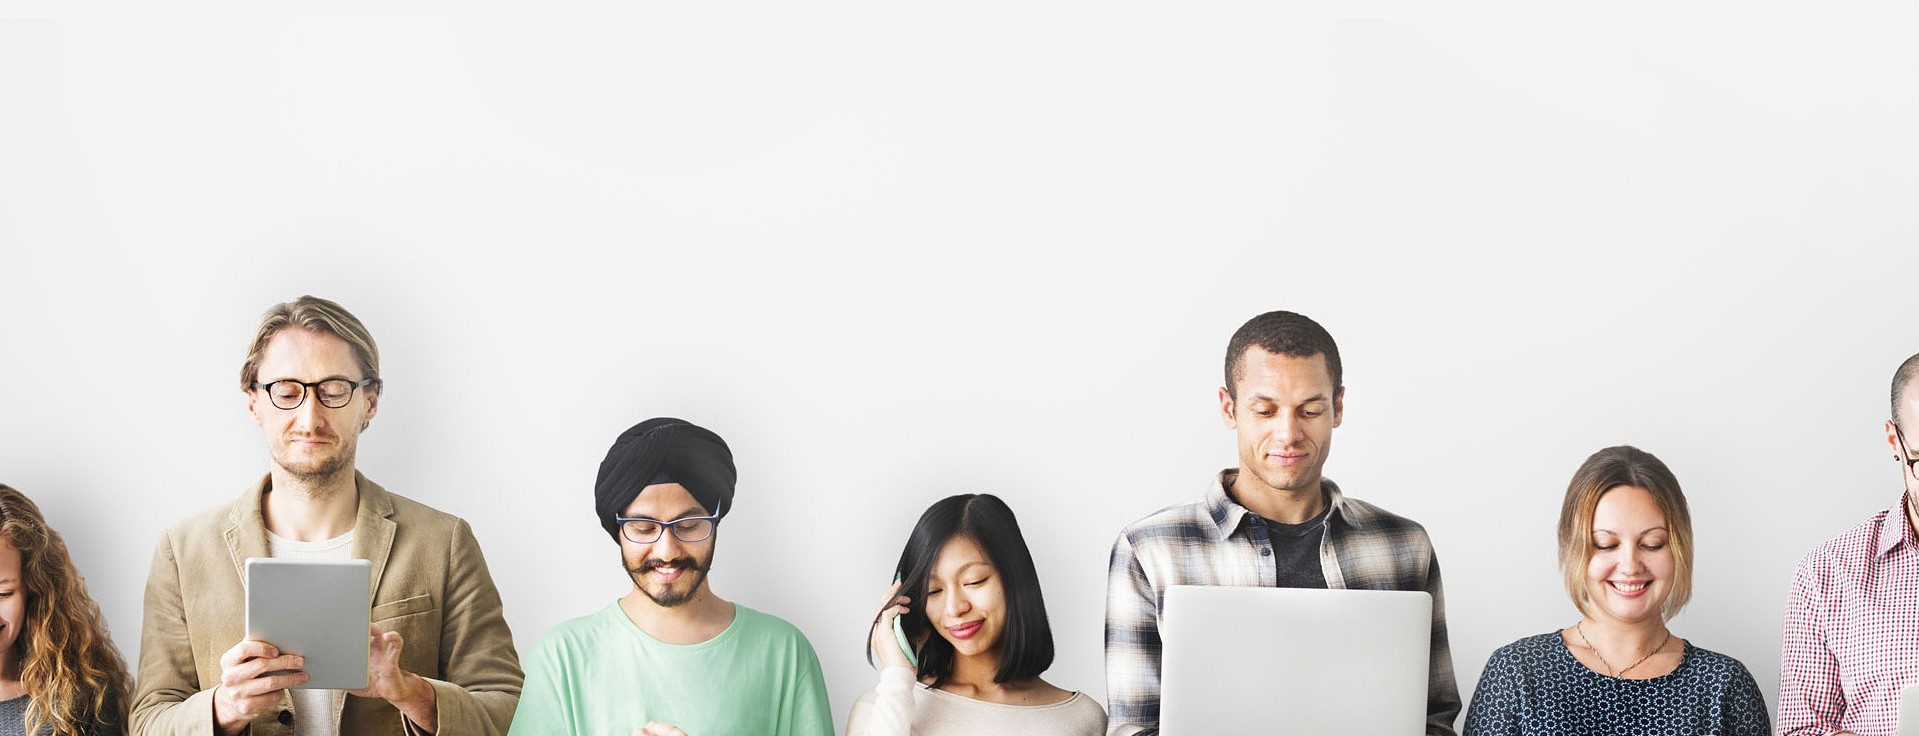
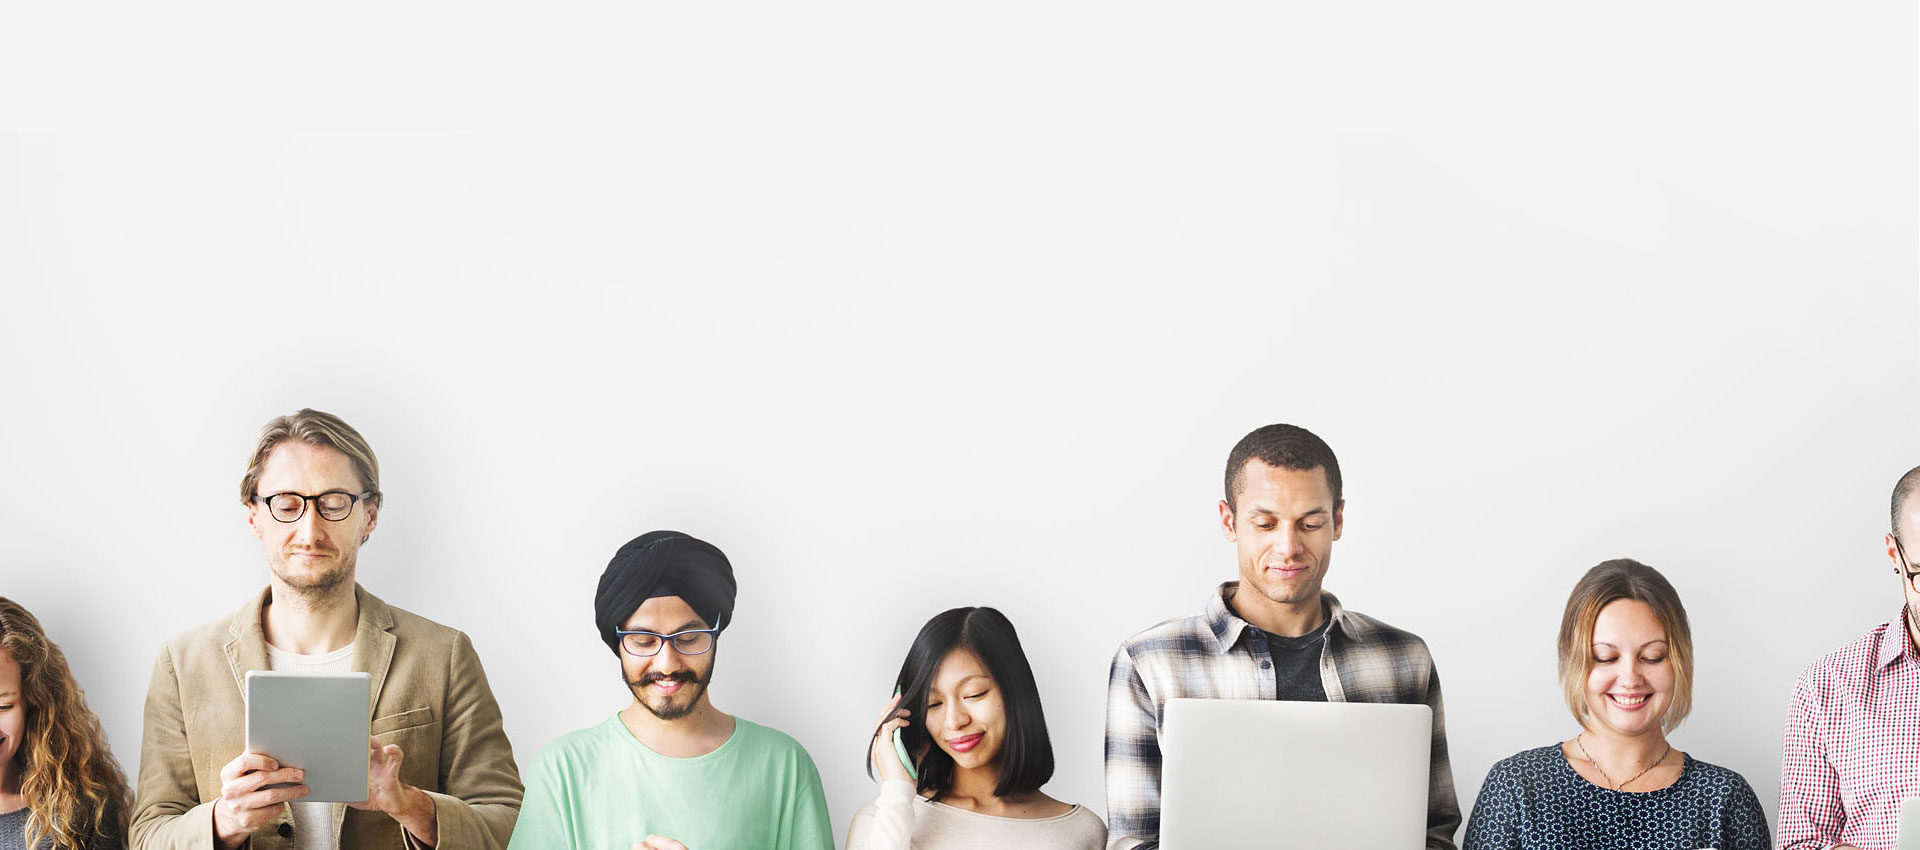
fix layout

Changed region(s): [[0.0, 0.4062, 1.0, 1.0]]

diff --git a/vendor/assets/stylesheets/main_styles.css b/vendor/assets/stylesheets/main_styles.css
@@ -765,7 +765,7 @@ section
 .home
 {
 	width: 100%;
-	height: 850px;
+	height: 600px;
 }
 .home_slider_container
 {
@@ -793,7 +793,7 @@ section
 .home_slider_content
 {
 	position: absolute;
-	top: 30%;
+	top: 25%;
 	left: 0;
 	width: 100%;
 	height: auto;
@@ -947,7 +947,7 @@ section
 	width: 100%;
 	background: #FFFFFF;
 	padding-top: 93px;
-	padding-bottom: 103px;
+	height: 650px;
 }
 .features_row
 {
@@ -988,7 +988,6 @@ section
 .courses
 {
 	width: 100%;
-	padding-top: 93px;
 	padding-bottom: 100px;
 }
 .courses_row

diff --git a/app/assets/stylesheets/custom.scss b/app/assets/stylesheets/custom.scss
@@ -1,11 +1,16 @@
 .context {
-    width: 100%;
-    margin-right: auto;
-    margin-left: auto;
+  width: 100%;
+  margin-right: auto;
+  margin-left: auto;
 }
-.context_1{
-    width: 100%;
-    margin-right: auto;
-    margin-left: auto;
-    padding-top: 110px;
+
+.context_1 {
+  width: 100%;
+  padding-top: 105px;
+  margin-right: auto;
+  margin-left: auto;
+}
+
+.margin_li_user {
+  margin: 10px;
 }
